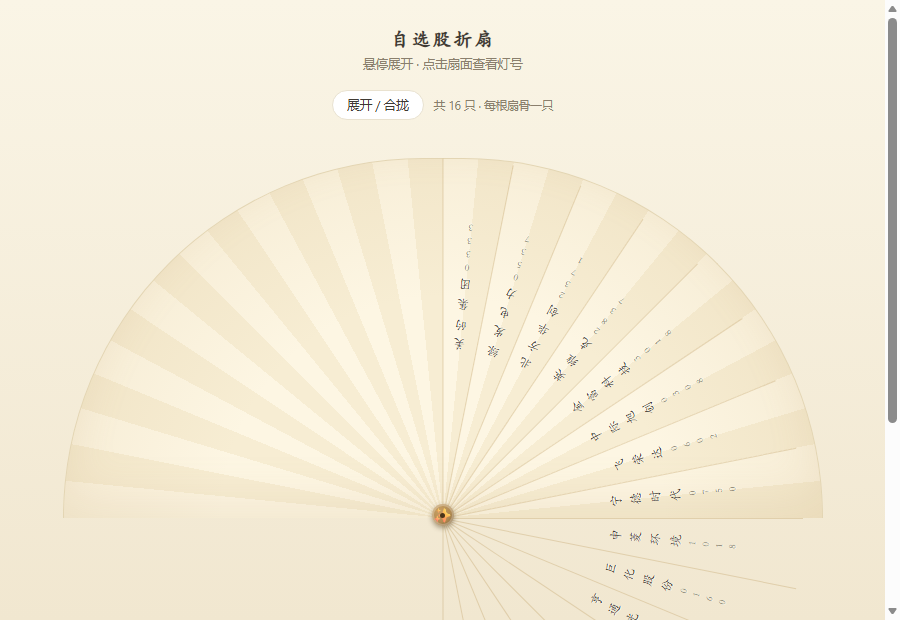
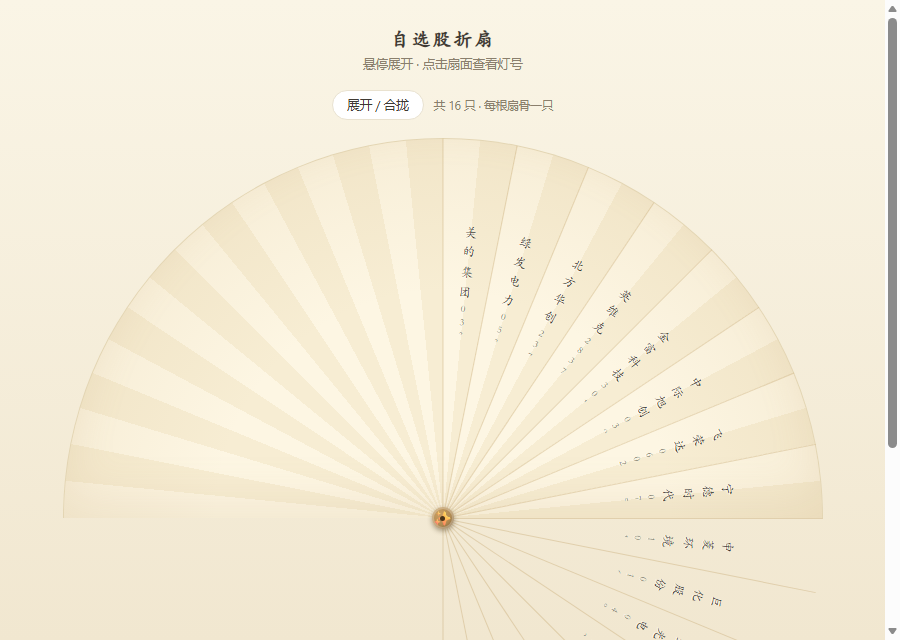
修正折扇预览：扇骨旋转轴对齐扇钉、文字朝向调整、扇面改标准半圆

diff --git a/docs/previews/fan-demo-v3.html b/docs/previews/fan-demo-v3.html
@@ -35,7 +35,7 @@ h1{font-family:"STKaiti","KaiTi",serif; font-size:19px; font-weight:600; letter-
   position:absolute; inset:0; cursor:default; outline:none;
 }
 .fan{
-  position:absolute; left:50%; bottom:42px; width:760px; height:360px;
+  position:absolute; left:50%; bottom:42px; width:760px; height:380px;
   margin-left:-380px;
   transform-origin:50% 100%;
   transform:rotate(-90deg) scaleX(.12);
@@ -45,7 +45,7 @@ h1{font-family:"STKaiti","KaiTi",serif; font-size:19px; font-weight:600; letter-
   transform:rotate(0deg) scaleX(1);
 }
 .paper{
-  position:absolute; left:0; top:0; width:760px; height:360px;
+  position:absolute; left:0; top:0; width:760px; height:380px;
   border-radius:380px 380px 0 0;
   background:
     repeating-conic-gradient(from -90deg at 50% 100%,
@@ -65,12 +65,12 @@ h1{font-family:"STKaiti","KaiTi",serif; font-size:19px; font-weight:600; letter-
   pointer-events:none;
 }
 .rib{
-  position:absolute; left:380px; top:360px; width:360px; height:1px;
+  position:absolute; left:380px; top:380px; width:380px; height:1px;
   background:rgba(197,167,113,.40);
   transform-origin:left center; pointer-events:none;
 }
 .blade{
-  position:absolute; left:380px; top:360px; width:360px; height:34px;
+  position:absolute; left:380px; top:363px; width:380px; height:34px;
   transform-origin:left center; cursor:pointer; border-radius:3px;
   transition:background .12s;
 }
@@ -80,6 +80,7 @@ h1{font-family:"STKaiti","KaiTi",serif; font-size:19px; font-weight:600; letter-
   font-family:"STKaiti","KaiTi",serif; font-size:13px; color:var(--ink);
   letter-spacing:3px; white-space:nowrap;
   writing-mode:vertical-rl; text-orientation:upright;
+  max-height:112px; overflow:hidden;
   opacity:0; transition:opacity .35s ease .25s;
   text-shadow:0 1px 0 rgba(255,255,255,.55);
 }
@@ -87,7 +88,7 @@ h1{font-family:"STKaiti","KaiTi",serif; font-size:19px; font-weight:600; letter-
 .blade-name .cd{color:var(--muted); font-size:9.5px; letter-spacing:1px}
 
 .center-pin{
-  position:absolute; left:50%; bottom:34px; width:22px; height:22px;
+  position:absolute; left:50%; bottom:31px; width:22px; height:22px;
   margin-left:-11px; border-radius:50%;
   background:radial-gradient(circle at 34% 30%, #C99F62, var(--wood) 55%, var(--wood-dark));
   box-shadow:0 2px 5px rgba(70,50,20,.45), inset 0 0 0 2px rgba(255,255,255,.28);
@@ -144,7 +145,7 @@ h1{font-family:"STKaiti","KaiTi",serif; font-size:19px; font-weight:600; letter-
 .up{color:var(--red)} .down{color:var(--green)}
 
 @media (max-width:860px){
-  .fan-wrapper{transform:scale(.78); transform-origin:top center; height:340px}
+  .fan-wrapper{transform:scale(.72); transform-origin:top center; height:310px; margin-bottom:24px}
 }
 @media (prefers-reduced-motion:reduce){
   .fan{transition:none}
@@ -207,7 +208,7 @@ const STOCKS = [
 ];
 
 const N = STOCKS.length;
-const R = 360, PIN_X = 380, PIN_Y = 360;
+const R = 380, PIN_X = 380, PIN_Y = 380;
 const LIGHT = {green:"🟢", yellow:"🟡", red:"🔴"};
 const fan = document.getElementById("fanContainer");
 const stage = document.getElementById("fanStage");
@@ -248,10 +249,10 @@ STOCKS.forEach((s, i) => {
 
   const label = document.createElement("div");
   label.className = "blade-name";
-  const lr = 232; // 文字所在的半径位置
+  const lr = 240; // 文字所在的半径位置
   label.style.left = (PIN_X + lr * Math.cos(rad)) + "px";
   label.style.top  = (PIN_Y + lr * Math.sin(rad)) + "px";
-  label.style.transform = `translate(-50%,-50%) rotate(${a - 90}deg)`;
+  label.style.transform = `translate(-50%,-50%) rotate(${a + 90}deg)`;
   label.innerHTML = `${s[1]}<span class="cd">${s[0].slice(-4)}</span>`;
   fan.appendChild(label);
 });
@@ -293,6 +294,26 @@ function showDetail(i){
 
 function hideDetail(){
   document.getElementById("detail").classList.remove("show");
+}
+
+// 几何自检：?debug=1 时输出扇骨中心与理论位置的偏差（像素）
+if (location.search.indexOf("debug=1") !== -1){
+  const dbg = [];
+  const pinEl = document.querySelector(".center-pin").getBoundingClientRect();
+  const pin = {x: pinEl.left + pinEl.width / 2, y: pinEl.top + pinEl.height / 2};
+  const paperEl = document.querySelector(".paper").getBoundingClientRect();
+  dbg.push({paper:{w:paperEl.width, h:paperEl.height, left:paperEl.left, top:paperEl.top}, pin:{x:pin.x, y:pin.y}, pinOffset:{dx:pin.x-(paperEl.left+paperEl.width/2), dy:pin.y-(paperEl.top+paperEl.height)}});
+  document.querySelectorAll(".blade").forEach((b, i) => {
+    const r = b.getBoundingClientRect();
+    const a = (i + 0.5) * (180 / N) - 90;
+    const cx = r.left + r.width / 2, cy = r.top + r.height / 2;
+    const actual = Math.atan2(cy - pin.y, cx - pin.x) * 180 / Math.PI;
+    dbg.push({i, expected: Math.round(a * 10) / 10, actual: Math.round(actual * 10) / 10, diff: Math.round((actual - a) * 10) / 10});
+  });
+  const pre = document.createElement("pre");
+  pre.id = "dbg";
+  pre.textContent = JSON.stringify(dbg);
+  document.body.appendChild(pre);
 }
 </script>
 </body>
